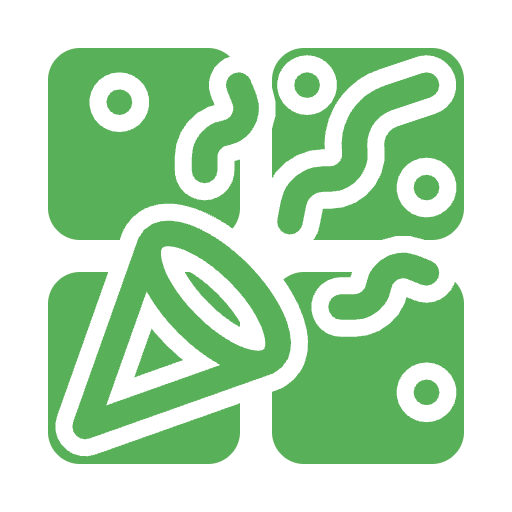
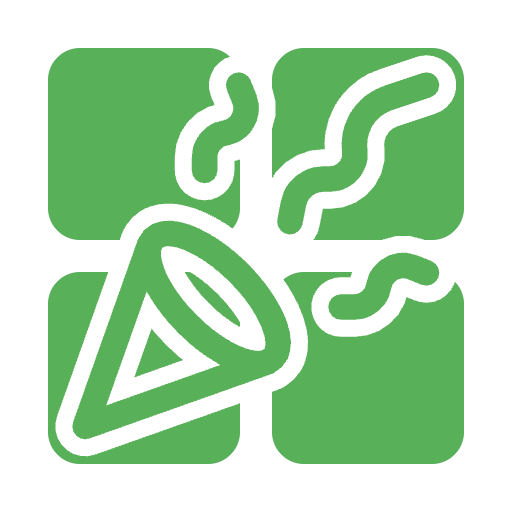
アイコン変更

diff --git a/icon.html b/icon.html
@@ -51,10 +51,6 @@
 		<svg xmlns="http://www.w3.org/2000/svg" width="80%" height="80%" viewBox="0 0 24 24" fill="none" stroke="white"
 			stroke-width="3.5" stroke-linecap="round" stroke-linejoin="round" class="lucide lucide-party-popper">
 			<path d="M5.8 11.3 2 22l10.7-3.79" />
-			<path d="M4 3h.01" />
-			<path d="M22 8h.01" />
-			<path d="M15 2h.01" />
-			<path d="M22 20h.01" />
 			<path
 				d="m22 2-2.24.75a2.9 2.9 0 0 0-1.96 3.12c.1.86-.57 1.63-1.45 1.63h-.38c-.86 0-1.6.6-1.76 1.44L14 10" />
 			<path d="m22 13-.82-.33c-.86-.34-1.82.2-1.98 1.11c-.11.7-.72 1.22-1.43 1.22H17" />
@@ -67,10 +63,6 @@
 			stroke="#58b058" stroke-width="1.5" stroke-linecap="round" stroke-linejoin="round"
 			class="lucide lucide-party-popper">
 			<path d="M5.8 11.3 2 22l10.7-3.79" />
-			<path d="M4 3h.01" />
-			<path d="M22 8h.01" />
-			<path d="M15 2h.01" />
-			<path d="M22 20h.01" />
 			<path
 				d="m22 2-2.24.75a2.9 2.9 0 0 0-1.96 3.12c.1.86-.57 1.63-1.45 1.63h-.38c-.86 0-1.6.6-1.76 1.44L14 10" />
 			<path d="m22 13-.82-.33c-.86-.34-1.82.2-1.98 1.11c-.11.7-.72 1.22-1.43 1.22H17" />

diff --git a/dev-dist/sw.js b/dev-dist/sw.js
@@ -82,7 +82,7 @@ define(['./workbox-54d0af47'], (function (workbox) { 'use strict';
     "revision": "3ca0b8505b4bec776b69afdba2768812"
   }, {
     "url": "index.html",
-    "revision": "0.79b3cg2upf8"
+    "revision": "0.cor4tani9rg"
   }], {});
   workbox.cleanupOutdatedCaches();
   workbox.registerRoute(new workbox.NavigationRoute(workbox.createHandlerBoundToURL("index.html"), {

diff --git a/vite.config.js b/vite.config.js
@@ -26,11 +26,6 @@ export default defineConfig({
 						src: 'icon_128.png',
 						sizes: '128x128',
 						type: 'image/png'
-					}, {
-						src: 'maskable_icon_512.png',
-						sizes: '512x512',
-						type: 'image/png',
-						purpose: 'maskable'
 					}
 				]
 			},
